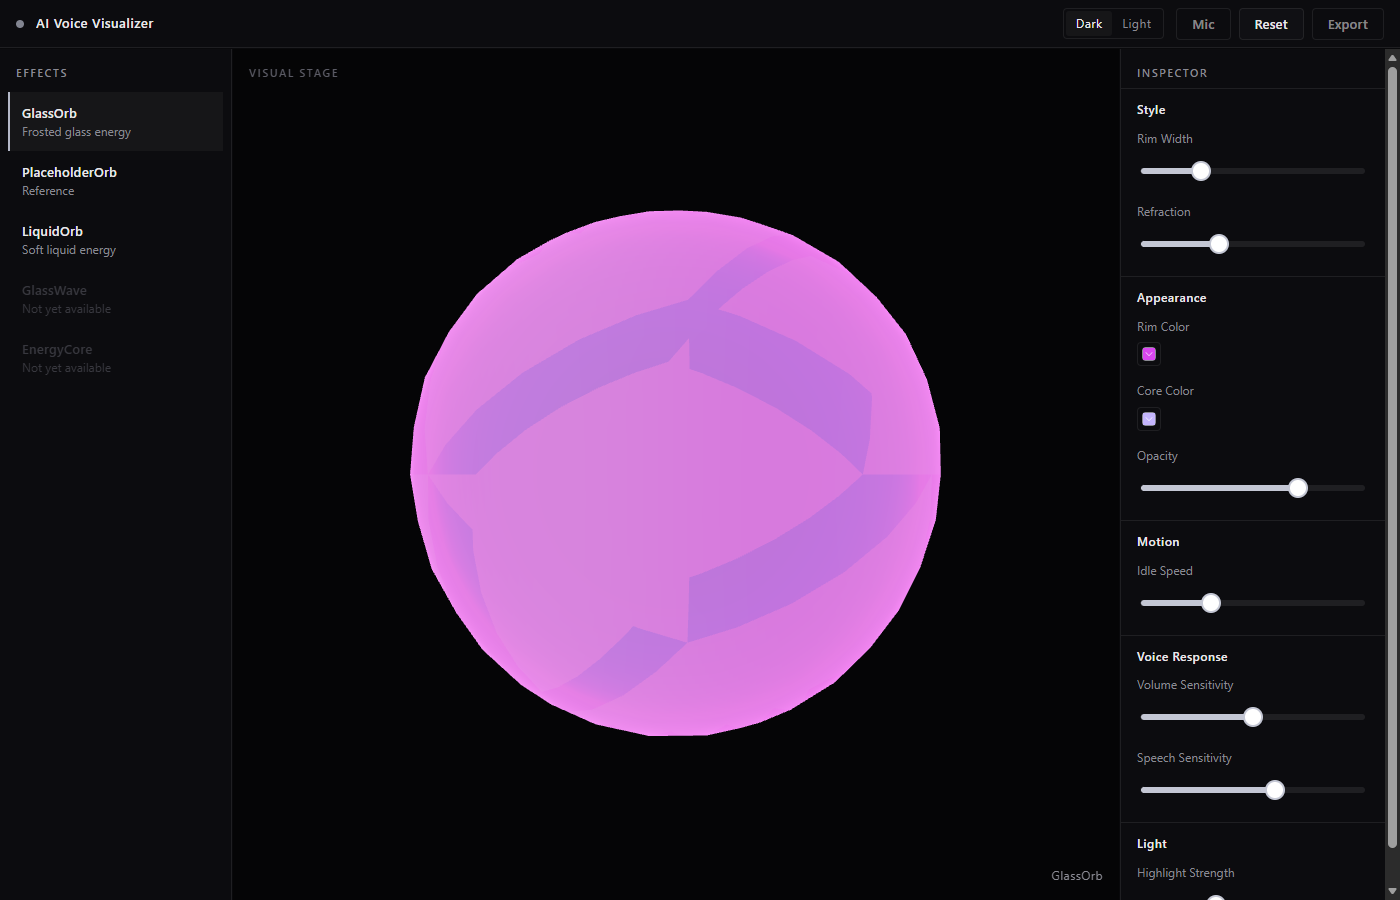
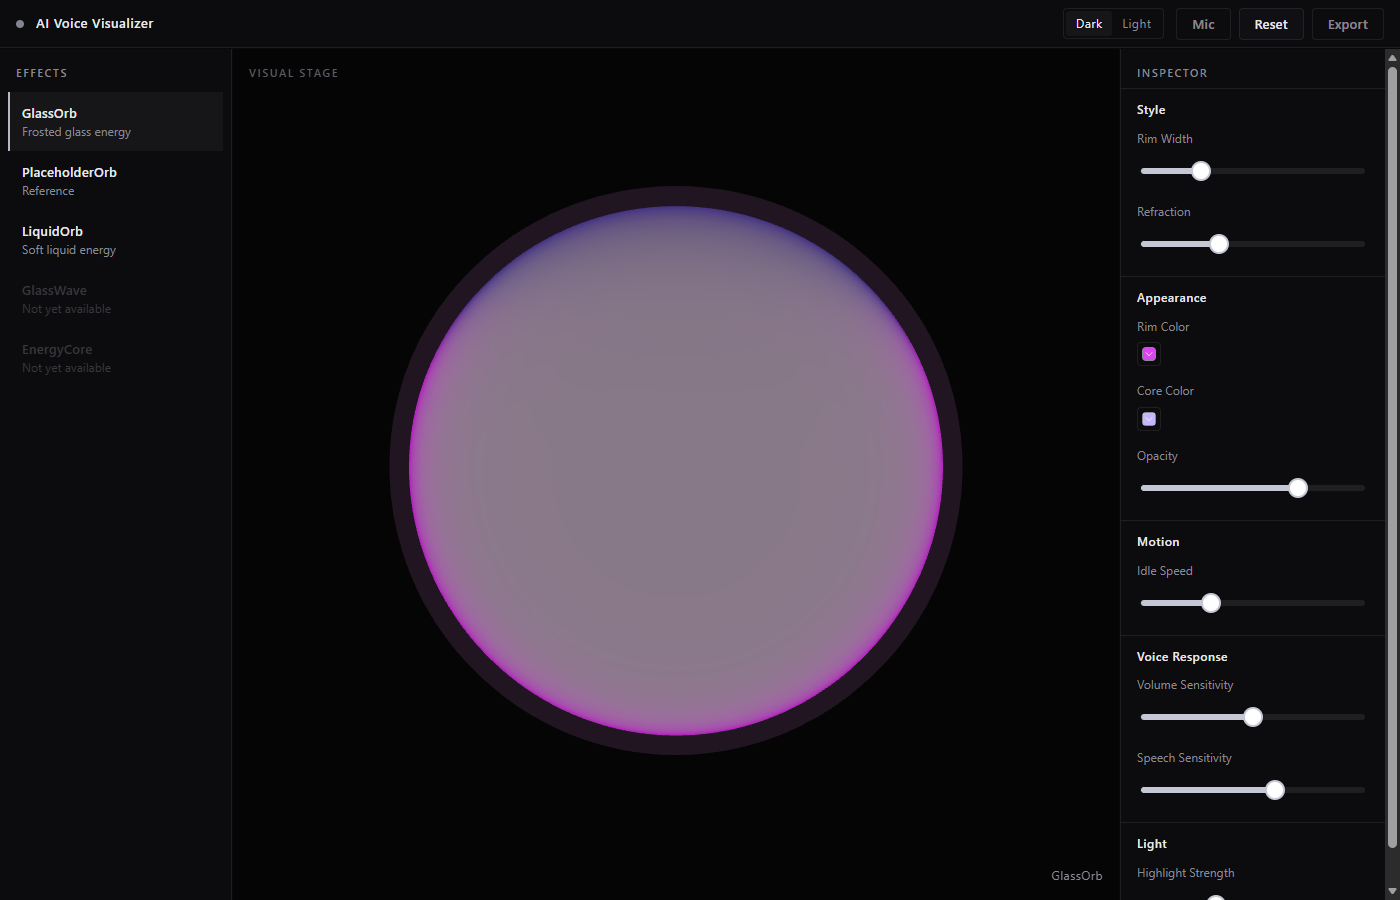
1

Changed region(s): [[0.2764, 0.1867, 0.7064, 0.84]]

diff --git a/src/visual/shaders/glassOrb.ts b/src/visual/shaders/glassOrb.ts
@@ -1,3 +1,40 @@
+const VALUE_NOISE = /* glsl */ `
+float hash13(vec3 p) {
+  p = fract(p * 0.3183099 + vec3(0.11, 0.17, 0.23));
+  p *= 17.0;
+  return fract(p.x * p.y * p.z * (p.x + p.y + p.z));
+}
+
+float vnoise(vec3 x) {
+  vec3 i = floor(x);
+  vec3 f = fract(x);
+  f = f * f * (3.0 - 2.0 * f);
+  return mix(
+    mix(
+      mix(hash13(i), hash13(i + vec3(1.0, 0.0, 0.0)), f.x),
+      mix(hash13(i + vec3(0.0, 1.0, 0.0)), hash13(i + vec3(1.0, 1.0, 0.0)), f.x),
+      f.y
+    ),
+    mix(
+      mix(hash13(i + vec3(0.0, 0.0, 1.0)), hash13(i + vec3(1.0, 0.0, 1.0)), f.x),
+      mix(hash13(i + vec3(0.0, 1.0, 1.0)), hash13(i + vec3(1.0, 1.0, 1.0)), f.x),
+      f.y
+    ),
+    f.z
+  );
+}
+
+float fbm(vec3 p) {
+  float sum = 0.0;
+  float amp = 0.55;
+  sum += vnoise(p) * amp;
+  p = p * 2.03 + 17.2;
+  amp *= 0.5;
+  sum += vnoise(p) * amp;
+  return sum;
+}
+`
+
 export const glassOrbVertexShader = /* glsl */ `
 uniform float uTime;
 
@@ -6,7 +43,7 @@ varying vec3 vWorldPosition;
 varying vec3 vViewPosition;
 
 void main() {
-  float deform = sin(uTime * 0.5 + position.y * 3.0) * 0.015;
+  float deform = sin(uTime * 0.5 + position.y * 2.0) * 0.015;
   vec3 pos = position + normal * deform;
 
   vec4 worldPosition = modelMatrix * vec4(pos, 1.0);
@@ -20,6 +57,8 @@ void main() {
 `
 
 export const glassOrbFragmentShader = /* glsl */ `
+${VALUE_NOISE}
+
 uniform float uTime;
 uniform float uVolume;
 uniform float uBass;
@@ -43,26 +82,60 @@ void main() {
   vec3 V = normalize(cameraPosition - vWorldPosition);
   float ndotv = max(dot(N, V), 0.0);
 
-  float rimPower = mix(4.2, 1.15, clamp((uRimWidth - 0.2) / 1.3, 0.0, 1.0));
+  float rimPower = mix(3.6, 1.25, clamp((uRimWidth - 0.2) / 1.3, 0.0, 1.0));
   float fresnel = pow(1.0 - ndotv, rimPower);
-  float innerGlow = pow(1.0 - ndotv, rimPower * 0.42) * 0.4;
 
-  vec3 rimTint = mix(uRimColor, vec3(1.0), uTreble * 0.3);
-  float bassBoost = 1.0 + uBass * 0.28;
-  vec3 rim = rimTint * (fresnel * 1.7 + innerGlow) * bassBoost;
+  float polar = N.y + (uPitch - 0.5) * 0.18;
+  float top = smoothstep(-0.05, 0.82, polar);
 
-  vec3 worldN = normalize(vWorldPosition);
-  float bandY = worldN.y + (uPitch - 0.5) * 0.35;
-  float band = sin(bandY * 6.0 + uTime * 0.4) * 0.5 + 0.5;
-  band = smoothstep(0.42, 0.82, band);
-  vec3 highlight = uHighlightColor * band * uHighlightStrength * uSpeechActivity;
+  vec3 whiteCore = mix(vec3(1.0, 0.98, 0.992), uCoreColor, 0.04);
+  vec3 indigo = vec3(0.14, 0.16, 0.52);
+  vec3 magenta = mix(uRimColor, vec3(1.0, 0.28, 0.68), 0.22 + uTreble * 0.2);
+  vec3 rimHue = mix(magenta, indigo, smoothstep(0.2, 0.88, top));
 
-  vec3 refractShift = mix(uCoreColor, uRimColor, 0.35 + 0.25 * sin(uTime * 0.22 + worldN.x * 2.8));
-  vec3 core = mix(uCoreColor, refractShift, uRefractionIntensity * (0.28 + fresnel * 0.55));
-  core = mix(core, uHighlightColor, 0.14 + uVolume * 0.08);
+  vec3 swirlPos = vWorldPosition * 1.85 + vec3(uTime * 0.12, uTime * 0.07, -uTime * 0.05);
+  float cloud = fbm(swirlPos);
+  float mist = (cloud - 0.42) * uRefractionIntensity;
+  float speech = uSpeechActivity * uHighlightStrength;
+  float flow = mist * (0.4 + speech * 0.85);
 
-  vec3 color = core + rim + highlight;
-  float alpha = uOpacity * mix(0.38, 0.94, clamp(fresnel + innerGlow * 0.5, 0.0, 1.0));
+  vec3 interior = mix(whiteCore, uHighlightColor, 0.04 + max(flow, 0.0) * 0.22 + uVolume * 0.04);
+  interior = mix(interior, indigo, top * 0.08 * (1.0 - fresnel));
+
+  float band = exp(-pow(polar - 0.12, 2.0) * 7.0);
+  interior += uHighlightColor * band * speech * 0.18;
+
+  float rimMix = clamp(fresnel * (1.28 + uBass * 0.18), 0.0, 1.0);
+  vec3 color = mix(interior, rimHue, rimMix);
+
+  float innerRing = smoothstep(0.12, 0.4, 1.0 - ndotv) * (1.0 - smoothstep(0.55, 0.92, 1.0 - ndotv));
+  float crescent = innerRing * smoothstep(0.28, 0.9, polar);
+  color = mix(color, indigo * 0.85, crescent * 0.9);
+
+  float alpha = uOpacity * mix(0.5, 0.97, clamp(fresnel * 1.05, 0.0, 1.0));
   gl_FragColor = vec4(color, alpha);
+}
+`
+
+export const glassOrbGlowFragmentShader = /* glsl */ `
+uniform vec3 uRimColor;
+uniform float uOpacity;
+uniform float uRimWidth;
+
+varying vec3 vNormal;
+varying vec3 vWorldPosition;
+
+void main() {
+  vec3 N = normalize(vNormal);
+  vec3 V = normalize(cameraPosition - vWorldPosition);
+  float ndotv = max(dot(N, V), 0.0);
+  float width = mix(3.4, 1.6, clamp((uRimWidth - 0.2) / 1.3, 0.0, 1.0));
+  float halo = pow(1.0 - ndotv, width);
+  halo = smoothstep(0.45, 0.98, halo);
+  float polar = normalize(vNormal).y;
+  vec3 pink = mix(uRimColor, vec3(1.0, 0.78, 0.88), 0.7);
+  vec3 indigo = vec3(0.35, 0.32, 0.7);
+  vec3 tint = mix(pink, indigo, smoothstep(0.15, 0.8, polar));
+  gl_FragColor = vec4(tint, halo * 0.1 * uOpacity);
 }
 `

diff --git a/src/visual/effects/GlassOrb.ts b/src/visual/effects/GlassOrb.ts
@@ -1,14 +1,20 @@
 import {
+  AdditiveBlending,
+  BackSide,
   Color,
-  DoubleSide,
-  IcosahedronGeometry,
+  FrontSide,
   Mesh,
   Scene,
   ShaderMaterial,
+  SphereGeometry,
 } from 'three'
 import type { AudioData } from '@/audio'
 import { disposeObject3D } from '../dispose'
-import { glassOrbFragmentShader, glassOrbVertexShader } from '../shaders/glassOrb'
+import {
+  glassOrbFragmentShader,
+  glassOrbGlowFragmentShader,
+  glassOrbVertexShader,
+} from '../shaders/glassOrb'
 import type {
   ControlDefinition,
   EffectDefinition,
@@ -137,41 +143,61 @@ export class GlassOrb implements VisualEffect {
   private readonly rimColor = new Color('#d946ef')
   private readonly coreColor = new Color('#c4b5fd')
   private readonly highlightColor = new Color('#fbcfe8')
-  private mesh: Mesh<IcosahedronGeometry, ShaderMaterial> | null = null
+  private mesh: Mesh<SphereGeometry, ShaderMaterial> | null = null
+  private glow: Mesh<SphereGeometry, ShaderMaterial> | null = null
   private material: ShaderMaterial | null = null
+  private glowMaterial: ShaderMaterial | null = null
   private elapsed = 0
   private appliedRim = ''
   private appliedCore = ''
 
   init(_context: VisualEffectContext): void {
-    const geometry = new IcosahedronGeometry(1, 5)
+    const uniforms = {
+      uTime: { value: 0 },
+      uVolume: { value: 0 },
+      uBass: { value: 0 },
+      uTreble: { value: 0 },
+      uPitch: { value: 0 },
+      uSpeechActivity: { value: 0 },
+      uRimColor: { value: this.rimColor.clone() },
+      uCoreColor: { value: this.coreColor.clone() },
+      uHighlightColor: { value: this.highlightColor.clone() },
+      uRimWidth: { value: 0.55 },
+      uHighlightStrength: { value: 1 },
+      uRefractionIntensity: { value: 0.35 },
+      uOpacity: { value: 0.85 },
+    }
+
     const material = new ShaderMaterial({
-      uniforms: {
-        uTime: { value: 0 },
-        uVolume: { value: 0 },
-        uBass: { value: 0 },
-        uTreble: { value: 0 },
-        uPitch: { value: 0 },
-        uSpeechActivity: { value: 0 },
-        uRimColor: { value: this.rimColor.clone() },
-        uCoreColor: { value: this.coreColor.clone() },
-        uHighlightColor: { value: this.highlightColor.clone() },
-        uRimWidth: { value: 0.55 },
-        uHighlightStrength: { value: 1 },
-        uRefractionIntensity: { value: 0.35 },
-        uOpacity: { value: 0.85 },
-      },
+      uniforms,
       vertexShader: glassOrbVertexShader,
       fragmentShader: glassOrbFragmentShader,
       transparent: true,
       depthWrite: false,
-      side: DoubleSide,
+      side: FrontSide,
     })
 
-    const mesh = new Mesh(geometry, material)
+    const glowMaterial = new ShaderMaterial({
+      uniforms,
+      vertexShader: glassOrbVertexShader,
+      fragmentShader: glassOrbGlowFragmentShader,
+      transparent: true,
+      depthWrite: false,
+      side: BackSide,
+      blending: AdditiveBlending,
+    })
+
+    const mesh = new Mesh(new SphereGeometry(1, 96, 96), material)
+    const glow = new Mesh(new SphereGeometry(1, 48, 48), glowMaterial)
+    glow.scale.setScalar(1.07)
+    glowMaterial.uniforms = material.uniforms
+
+    this.scene.add(glow)
     this.scene.add(mesh)
     this.mesh = mesh
+    this.glow = glow
     this.material = material
+    this.glowMaterial = glowMaterial
     this.elapsed = 0
     this.appliedRim = ''
     this.appliedCore = ''
@@ -202,8 +228,12 @@ export class GlassOrb implements VisualEffect {
     this.elapsed += deltaTime * 0.001 * idleSpeed
 
     const audioScale = 1 + volume * volumeSensitivity * 0.08
-    mesh.scale.set(audioScale, audioScale, audioScale)
-    mesh.rotation.y += deltaTime * 0.00012 * idleSpeed
+    mesh.scale.setScalar(audioScale)
+    mesh.rotation.y += deltaTime * 0.00008 * idleSpeed
+    if (this.glow) {
+      this.glow.scale.setScalar(audioScale * 1.07)
+      this.glow.rotation.copy(mesh.rotation)
+    }
 
     uniforms.uTime.value = this.elapsed
     uniforms.uVolume.value = volume
@@ -237,7 +267,9 @@ export class GlassOrb implements VisualEffect {
     disposeObject3D(this.scene)
     this.scene.clear()
     this.mesh = null
+    this.glow = null
     this.material = null
+    this.glowMaterial = null
   }
 
   getDebugUniforms(): GlassOrbDebugUniforms {

diff --git a/src/components/inspector/InspectorPanel.vue b/src/components/inspector/InspectorPanel.vue
@@ -94,7 +94,7 @@ function onSelectChange(key: string, value: string | number | boolean | undefine
             :max="control.max ?? 1"
             :step="control.step ?? 0.01"
             :show-tooltip="false"
-            @change="(value) => onSliderChange(control.key, value)"
+            @update:model-value="(value) => onSliderChange(control.key, value)"
           />
 
           <ElColorPicker
@@ -102,14 +102,14 @@ function onSelectChange(key: string, value: string | number | boolean | undefine
             :id="`control-${control.key}`"
             :model-value="String(settings[control.key] ?? control.defaultValue)"
             size="small"
-            @change="(value) => onColorChange(control.key, value)"
+            @update:model-value="(value) => onColorChange(control.key, value)"
           />
 
           <ElSwitch
             v-else-if="control.type === 'switch'"
             :id="`control-${control.key}`"
             :model-value="Boolean(settings[control.key])"
-            @change="(value) => onSwitchChange(control.key, value)"
+            @update:model-value="(value) => onSwitchChange(control.key, value)"
           />
 
           <ElSelect
@@ -117,7 +117,7 @@ function onSelectChange(key: string, value: string | number | boolean | undefine
             :id="`control-${control.key}`"
             :model-value="String(settings[control.key] ?? control.defaultValue)"
             size="small"
-            @change="(value) => onSelectChange(control.key, value)"
+            @update:model-value="(value) => onSelectChange(control.key, value)"
           >
             <ElOption
               v-for="option in control.options"

diff --git a/src/stores/editor.ts b/src/stores/editor.ts
@@ -43,7 +43,7 @@ export const useEditorStore = defineStore('editor', () => {
     if (!definition || !definition.controls.some((control) => control.key === key)) {
       return
     }
-    settings.value[key] = value
+    settings.value = { ...settings.value, [key]: value }
   }
 
   function resetEffectSettings(): void {

diff --git a/.cursor/reports/TASK-006.md b/.cursor/reports/TASK-006.md
@@ -4,7 +4,7 @@ Status: COMPLETED
 
 ## Summary
 
-落地独立产品效果 GlassOrb（粉紫 fresnel 玻璃球），并把 Stage 背景切成 dark/light；默认加载为 GlassOrb + light stage。
+落地独立产品效果 GlassOrb（白核、洋红 rim、顶部靛蓝新月），并把 Stage 背景切成 dark/light；默认加载为 GlassOrb + light stage。后续按用户参考图把默认观感从棱面冰晶改成正圆软边玻璃球。
 
 ## Changed
 
@@ -35,7 +35,7 @@ Status: COMPLETED
 | Spec | 落地 | 差异 |
 |---|---|---|
 | GlassOrb 独立 Effect，9 控件，5 组 | `GlassOrb.ts` keys：rimColor / coreColor / opacity / rimWidth / refractionIntensity / idleSpeed / volumeSensitivity / speechSensitivity / highlightStrength | 无 |
-| Shader uniforms + fresnel / 高光带 / 折射近似 | `glassOrb.ts`；形变 `sin(time*0.5)*0.015`；`IcosahedronGeometry(1,5)` | 折射仅为颜色叠加，无真采样 |
+| Shader uniforms + fresnel / 高光带 / 折射近似 | `glassOrb.ts`：白核 + 底部洋红 + 顶部靛蓝新月 + 外侧软光晕 mesh | 几何用 `SphereGeometry(1,96,96)` 替代 `IcosahedronGeometry(1,5)`，避免棱面；折射仍为颜色叠加 |
 | 注册顺序 GlassOrb → LiquidOrb → PlaceholderOrb | `VisualStage.vue` | 无 |
 | 清掉 store hardcoded `placeholder-orb` | 初始 `null`，由 `syncAvailableEffects(defaultId)` 填入 | 无 |
 | `preferredStageStyle` | GlassOrb `light`；Liquid/Placeholder `dark` | 无 |
@@ -50,7 +50,7 @@ Status: COMPLETED
 
 - Effects 选中 GlassOrb
 - Header Light 为 on
-- Stage 近白底，球体居中，粉紫 rim 可见
+- Stage 近白底，球体居中：近白核心、底部洋红 rim、顶部靛蓝弧
 - Inspector 五组 9 控件
 
 ![Default GlassOrb on light stage](./TASK-006-light.png)
@@ -81,11 +81,11 @@ light 舞台下 `VISUAL STAGE` / `GlassOrb` 走 `--color-text-stage-light-muted`
 
 ## 6. Open issues
 
-- Headless SwiftShader 下 ShaderMaterial 偶发全黑；Dark GlassOrb 截图重试后 97KB 才有球体。Review 复现时若全黑请重拍。
-- Icosahedron detail=5 在截图里仍能看出轻微分面，不是物理完美球面。
-- 麦克风未接；默认截图是 idle，speech 高光带靠 shader 公式存在，页面上安静时接近 0。
+- Headless SwiftShader 下 ShaderMaterial 偶发全黑；Dark GlassOrb 截图若全黑请重拍。
+- 默认观感已按参考图 1 重做（正圆、白核、洋红底、靛蓝顶）。仍无后处理 bloom，外圈光晕是第二层 mesh 近似。
+- 麦克风未接；安静时内部流动很弱。
 - `stageStyle` 不写 localStorage（spec Out of Scope）。
-- 未做 Effect 切换过渡 / bloom / 真折射。
+- 几何从 spec 的 Icosahedron(1,5) 改为 SphereGeometry，为了正圆轮廓。
 
 ## Tested
 
